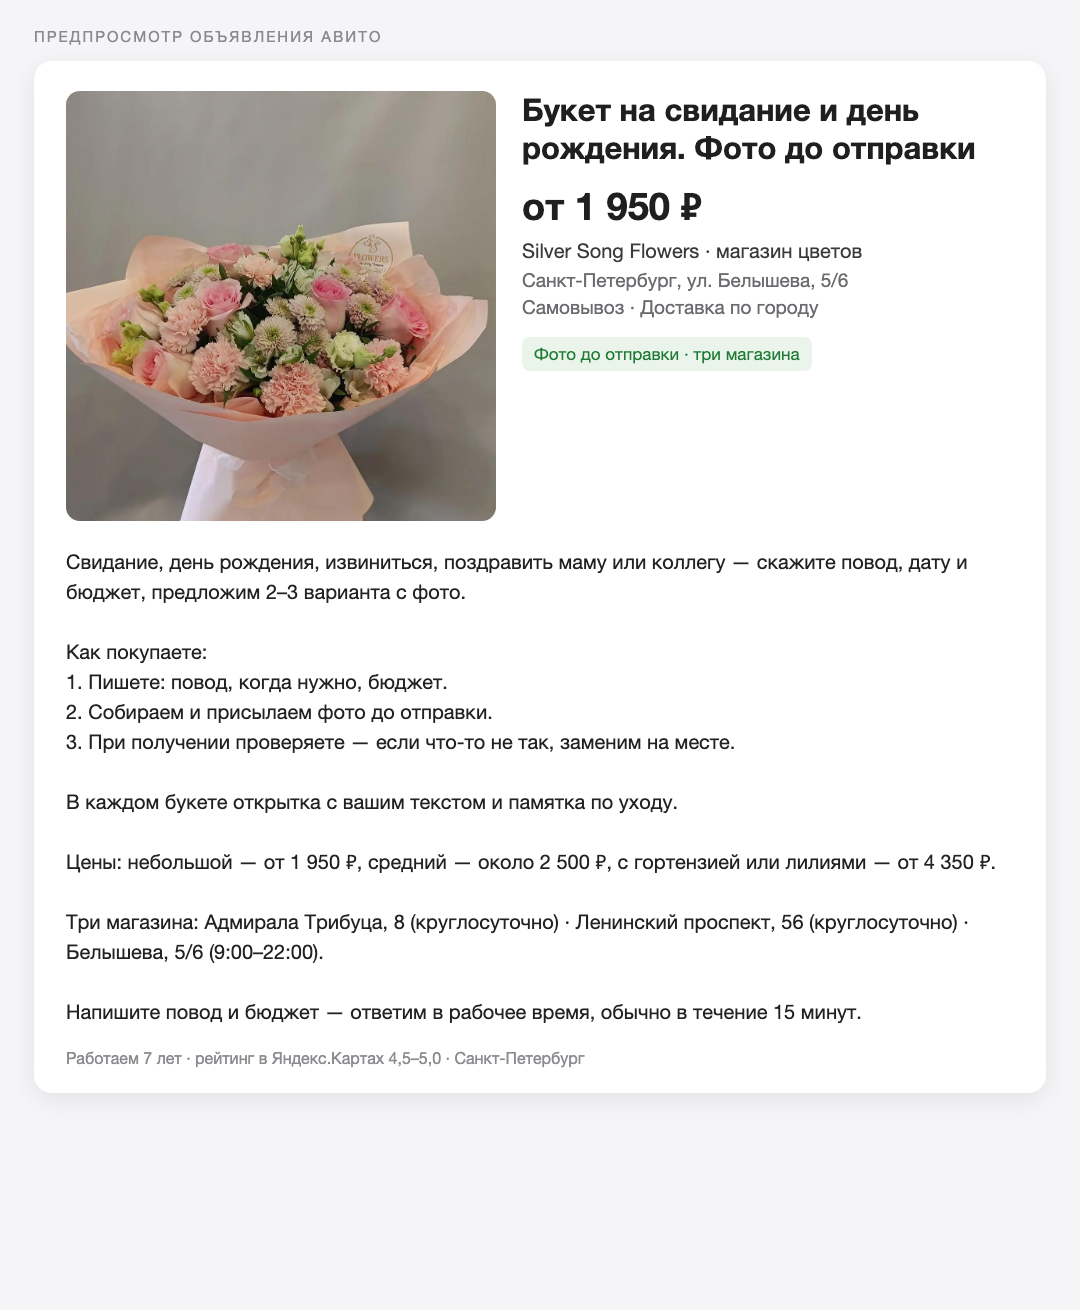
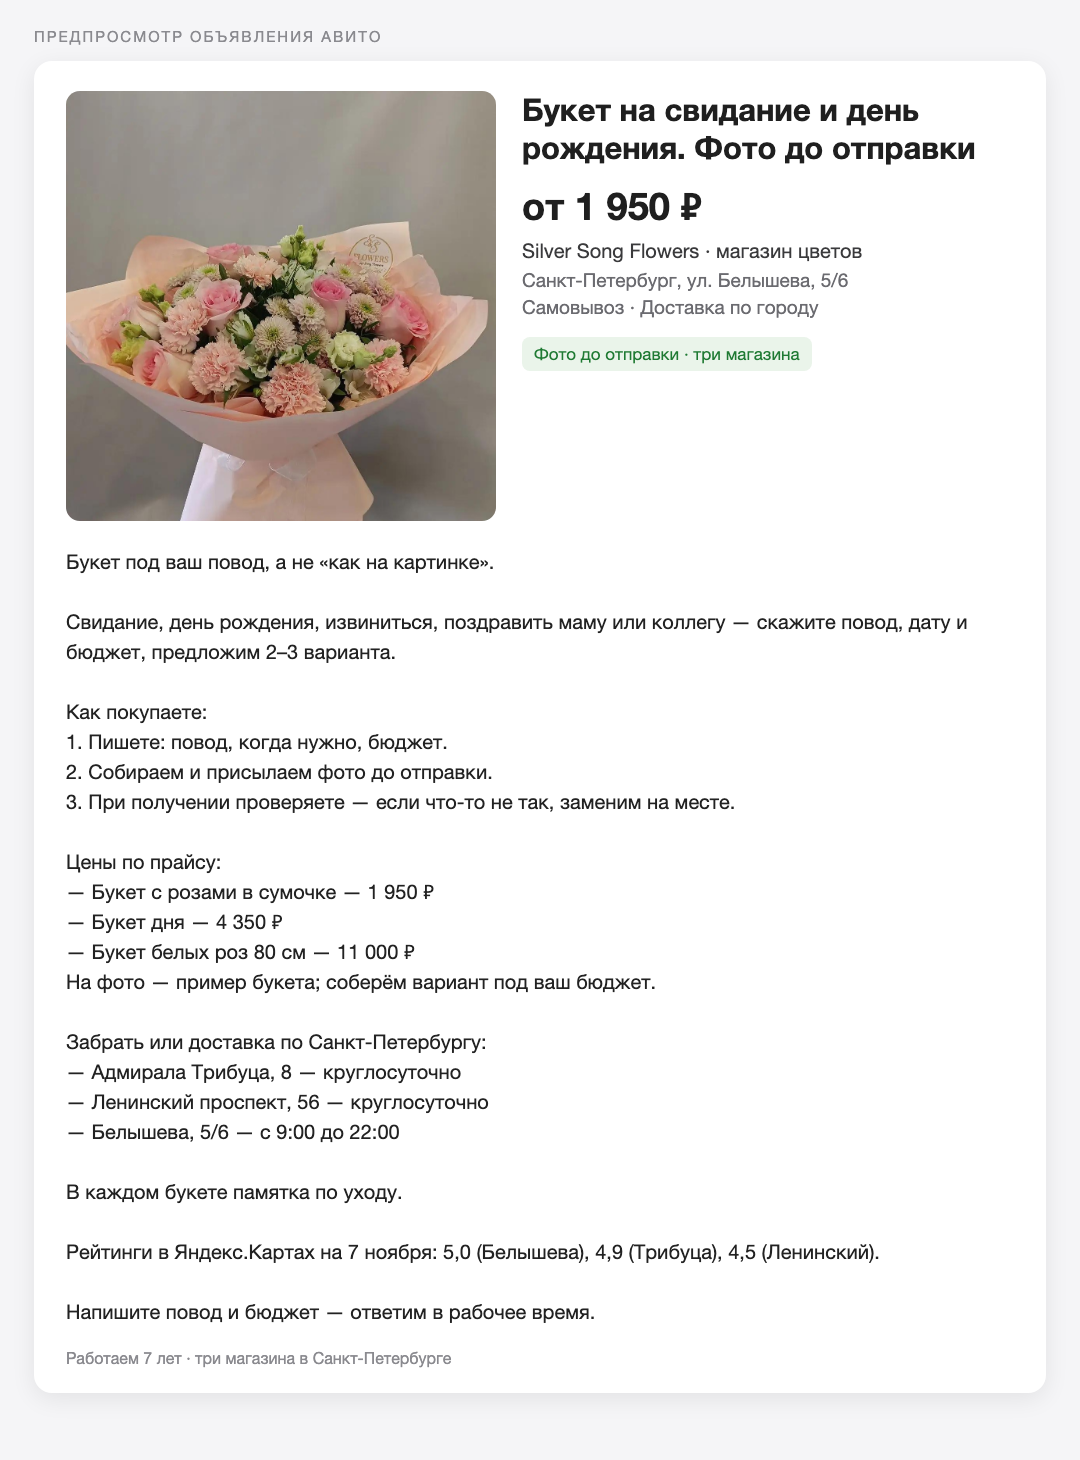
Авито: объявление исправлено по пяти замечаниям проверяющего

diff --git a/agent-marketolog/templates/avito-preview.html b/agent-marketolog/templates/avito-preview.html
@@ -31,20 +31,31 @@
         <div class="badge">Фото до отправки · три магазина</div>
       </div>
     </div>
-    <div class="desc">Свидание, день рождения, извиниться, поздравить маму или коллегу — скажите повод, дату и бюджет, предложим 2–3 варианта с фото.
+    <div class="desc">Букет под ваш повод, а не «как на картинке».
+
+Свидание, день рождения, извиниться, поздравить маму или коллегу — скажите повод, дату и бюджет, предложим 2–3 варианта.
 
 Как покупаете:
 1. Пишете: повод, когда нужно, бюджет.
 2. Собираем и присылаем фото до отправки.
 3. При получении проверяете — если что-то не так, заменим на месте.
 
-В каждом букете открытка с вашим текстом и памятка по уходу.
+Цены по прайсу:
+— Букет с розами в сумочке — 1 950 ₽
+— Букет дня — 4 350 ₽
+— Букет белых роз 80 см — 11 000 ₽
+На фото — пример букета; соберём вариант под ваш бюджет.
 
-Цены: небольшой — от 1 950 ₽, средний — около 2 500 ₽, с гортензией или лилиями — от 4 350 ₽.
+Забрать или доставка по Санкт-Петербургу:
+— Адмирала Трибуца, 8 — круглосуточно
+— Ленинский проспект, 56 — круглосуточно
+— Белышева, 5/6 — с 9:00 до 22:00
 
-Три магазина: Адмирала Трибуца, 8 (круглосуточно) · Ленинский проспект, 56 (круглосуточно) · Белышева, 5/6 (9:00–22:00).
+В каждом букете памятка по уходу.
 
-Напишите повод и бюджет — ответим в рабочее время, обычно в течение 15 минут.</div>
-    <div class="foot">Работаем 7 лет · рейтинг в Яндекс.Картах 4,5–5,0 · Санкт-Петербург</div>
+Рейтинги в Яндекс.Картах на 7 ноября: 5,0 (Белышева), 4,9 (Трибуца), 4,5 (Ленинский).
+
+Напишите повод и бюджет — ответим в рабочее время.</div>
+    <div class="foot">Работаем 7 лет · три магазина в Санкт-Петербурге</div>
   </div>
 </body></html>

diff --git a/agent-marketolog/results/avito-obyavlenie-final-2026-11-07.md b/agent-marketolog/results/avito-obyavlenie-final-2026-11-07.md
@@ -1,0 +1,62 @@
+# Объявление Авито — финальная версия 2026-11-07
+
+Проверено вторым агентом, замечания внесены (`review-avito-2026-11-07.md`). Макет: `avito-preview-2026-11-07.png`.
+
+## Заголовок
+
+```
+Букет на свидание и день рождения. Фото до отправки
+```
+
+## Цена
+
+```
+от 1 950 ₽
+```
+
+## Текст
+
+```
+Букет под ваш повод, а не «как на картинке».
+
+Свидание, день рождения, извиниться, поздравить маму или коллегу — скажите повод, дату и бюджет, предложим 2–3 варианта.
+
+Как покупаете:
+1. Пишете: повод, когда нужно, бюджет.
+2. Собираем и присылаем фото до отправки.
+3. При получении проверяете — если что-то не так, заменим на месте.
+
+Цены по прайсу:
+— Букет с розами в сумочке — 1 950 ₽
+— Букет дня — 4 350 ₽
+— Букет белых роз 80 см — 11 000 ₽
+На фото — пример букета; соберём вариант под ваш бюджет.
+
+Забрать или доставка по Санкт-Петербургу:
+— Адмирала Трибуца, 8 — круглосуточно
+— Ленинский проспект, 56 — круглосуточно
+— Белышева, 5/6 — с 9:00 до 22:00
+
+В каждом букете памятка по уходу.
+
+Рейтинги в Яндекс.Картах на 7 ноября: 5,0 (Белышева), 4,9 (Трибуца), 4,5 (Ленинский).
+
+Напишите повод и бюджет — ответим в рабочее время.
+```
+
+## Настройки
+
+| Поле | Значение |
+|---|---|
+| Категория | Для дома и дачи → Растения → Букеты |
+| Город | Санкт-Петербург |
+| Адрес | ул. Белышева, 5/6 |
+| Цена | от 1 950 ₽ |
+| Доставка / самовывоз | да / да |
+| Фото | `foto/bukety-arhiv/buket-52.jpg` (кроп), подпись «пример» в тексте |
+
+## Перед публикацией
+
+1. Проверить тариф категории «Букеты»: в кошельке 407 ₽.
+2. Решить судьбу 7 старых вакансий — удалить.
+3. Подтвердить, кто отвечает на сообщения и в какое время — в тексте стоит «в рабочее время».

diff --git a/agent-marketolog/results/review-avito-2026-11-07.md b/agent-marketolog/results/review-avito-2026-11-07.md
@@ -1,0 +1,19 @@
+# Проверка объявления Авито вторым агентом — 2026-11-07
+
+**Вердикт: публиковать нельзя** (версия до правок). Причины: цены не из прайса, фото не соответствует цене, неподтверждённые сроки, рейтинг без источника, несогласованная открытка.
+
+## Пять замечаний и что исправлено
+
+| № | Замечание | Правка |
+|---|---|---|
+| 1 | Цены «1 950 / около 2 500 / от 4 350» — не прайс: 2 500 — средний чек, 4 350 — цена «Букета дня», а не «с гортензией» | Оставлены три точные позиции: сумочка 1 950 ₽, букет дня 4 350 ₽, белые розы 80 см 11 000 ₽ |
+| 2 | Фото крупного букета не соответствует цене «от 1 950», подписи «пример» нет | Добавлено: «На фото — пример букета; соберём вариант под ваш бюджет» |
+| 3 | «Ответим за 15 минут» и «собираем в день заказа» не подтверждены | Убрано; осталось «ответим в рабочее время». Сборка в день заказа из текста убрана |
+| 4 | «Рейтинг 4,5–5,0» без источника и даты | Указаны точные рейтинги с датой: 5,0 (Белышева, 117 отзывов), 4,9 (Трибуца, 87), 4,5 (Ленинский, 63) — на 7 ноября |
+| 5 | Открытка в каждом букете — приём конкурентов, не согласованный бонус; «чтобы стояли дольше» противоречит отказу от гарантий срока | Открытка убрана, осталась памятка по уходу; обещание стойкости убрано |
+
+Подтверждено проверяющим: часы работы верны, названий чужих магазинов и оптовых формулировок в тексте нет.
+
+## Итоговая версия
+
+`results/avito-obyavlenie-final-2026-11-07.md` и макет `results/avito-preview-2026-11-07.png`.

diff --git a/Журнал.md b/Журнал.md
@@ -132,3 +132,4 @@
 - Авито: удалить 7 неопубликованных через мой браузер не удалось — интерфейс не отдаёт ни массовых действий, ни ссылок на объявления. Данные удаляемых сохранены в `agent-marketolog/results/avito-udalennye-2026-11-07.md`.
 - Разобрал выдачу «Букеты цветов» по СПб (11 576 объявлений): топ — оптовики с 800–920 отзывами и платным продвижением, заголовки с цифрами и ценой-приманкой. Собрал объявление с нашими отличиями (фото до отправки, замена при получении, три адреса) — `agent-marketolog/results/avito-obyavlenie-2026-11-07.md`.
 - Переделал объявление под розницу: разобрал не оптовиков, а розничные магазины из выдачи (цены 1 600–4 800 ₽, рейтинги 4,8–5,0 при 9–169 отзывах). Их приёмы: повод в заголовке, сорт, подарки в комплекте, честность фото. Три варианта заголовка и текст — `agent-marketolog/results/avito-obyavlenie-v2-2026-11-07.md`.
+- Объявление Авито проверено вторым агентом: вердикт «нельзя» по пяти пунктам (цены не из прайса, фото не к цене, сроки, рейтинг без источника, открытка). Всё исправлено: `results/avito-obyavlenie-final-2026-11-07.md`, отчёт — `results/review-avito-2026-11-07.md`. В `knowledge.md` добавлены рейтинги карточек с датой.

diff --git a/agent-marketolog/knowledge.md b/agent-marketolog/knowledge.md
@@ -152,3 +152,13 @@
 | Активное: работники розничной торговли / продавец в ночь | от 35 000 ₽ | активно |
 
 **Объявлений о продаже цветов нет.** Отсюда 264 просмотра и ноль заявок на букеты.
+
+### Рейтинги карточек на 2026-11-07
+
+| Точка | Рейтинг | Отзывы |
+|---|---|---|
+| Белышева, 5/6 | 5,0 | 117 |
+| Трибуца, 8 | 4,9 | 87 |
+| Ленинский, 56 | 4,5 | 63 |
+
+Источник: кабинет Яндекс.Бизнеса, проверено 2026-11-07. В текстах указывать с датой.
